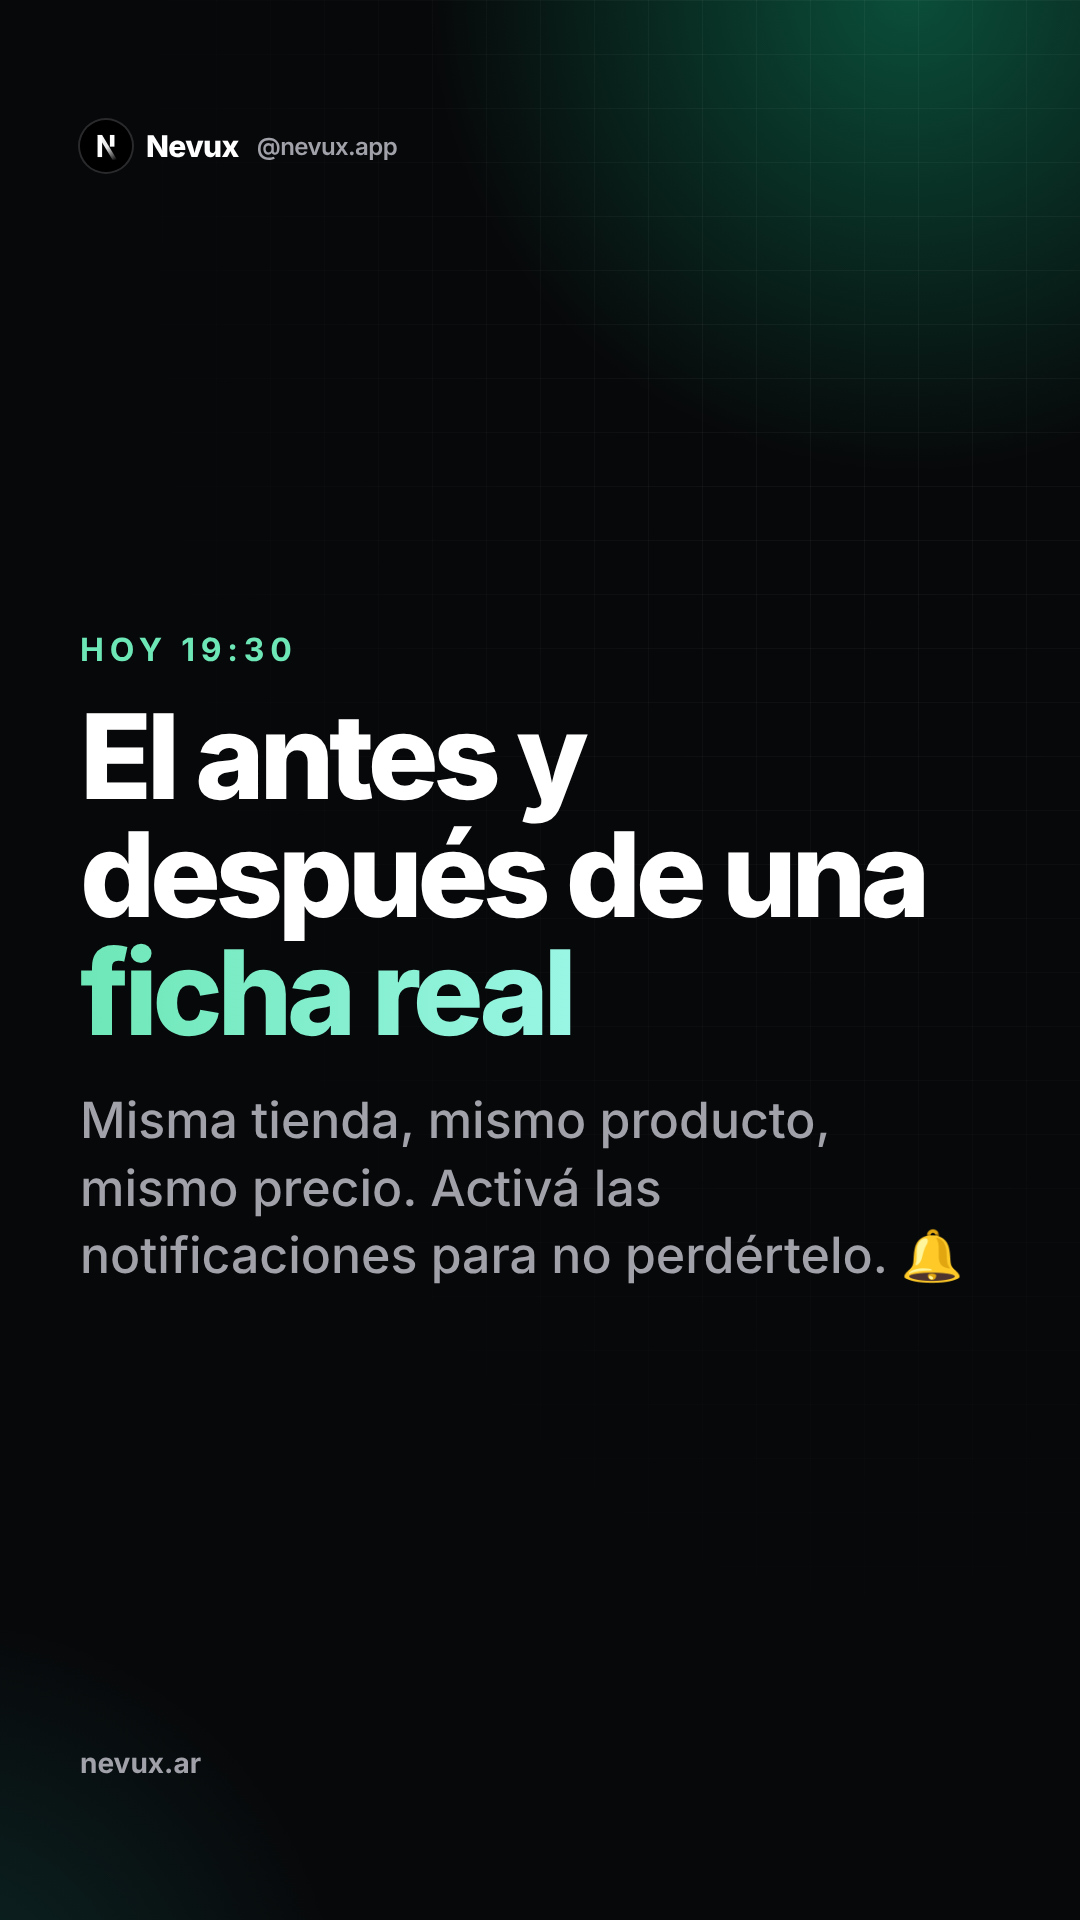
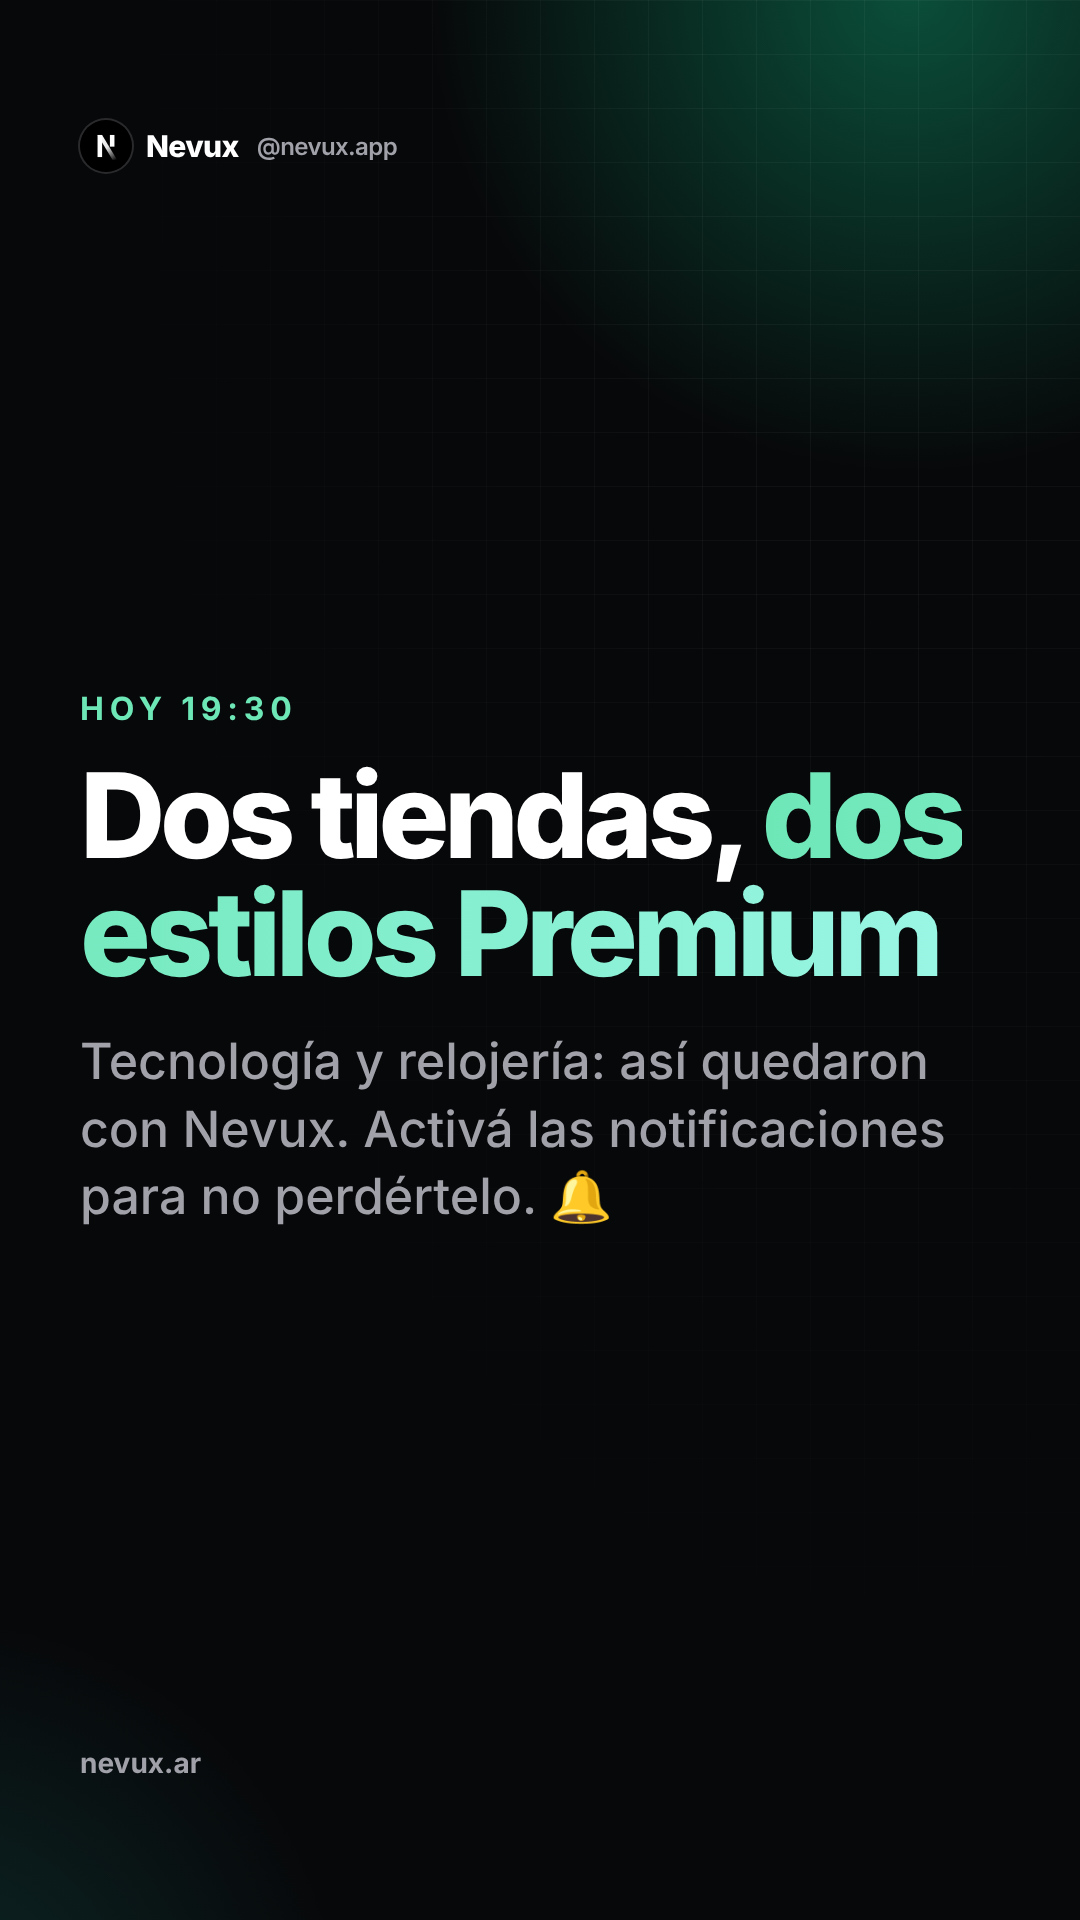
Instagram @nevux.app: miércoles 4/11 con las dos tiendas Premium como están hoy (Hogar Digital y Valmont)
Claude-Session: https://claude.ai/code/session_01PDD9Es5e9V3nkNbyxc3gnr

Changed region(s): [[0.0611, 0.3125, 0.8861, 0.6875], [0.825, 0.625, 0.8861, 0.6875]]

diff --git a/scripts/instagram/casos.html b/scripts/instagram/casos.html
@@ -1,0 +1,62 @@
+<!doctype html>
+<html lang="es">
+<head>
+<meta charset="utf-8">
+<!-- Carrusel de casos reales (capturas de tiendas dentro de celulares). generar-casos.js le pasa cada placa en window.PLACA. -->
+<link href="https://fonts.googleapis.com/css2?family=Inter:wght@500;600;700;800;900&display=block" rel="stylesheet">
+<style>
+  * { margin: 0; padding: 0; box-sizing: border-box; }
+  html, body { width: 1080px; height: 1350px; overflow: hidden; }
+  body { font-family: Inter, sans-serif; color: #fff; background: #07080a; position: relative; }
+  .glow { position: absolute; width: 1100px; height: 1100px; right: -380px; top: -560px; border-radius: 50%; background: radial-gradient(circle, rgba(16,185,129,.40), rgba(16,185,129,0) 62%); }
+  .glow2 { position: absolute; width: 900px; height: 900px; left: -520px; bottom: -560px; border-radius: 50%; background: radial-gradient(circle, rgba(45,212,191,.16), rgba(45,212,191,0) 65%); }
+  .grid { position: absolute; inset: 0; background-image: linear-gradient(rgba(255,255,255,.04) 1px, transparent 1px), linear-gradient(90deg, rgba(255,255,255,.04) 1px, transparent 1px); background-size: 54px 54px; -webkit-mask-image: radial-gradient(ellipse at 80% 10%, #000 15%, transparent 65%); }
+  .top { position: absolute; left: 80px; right: 80px; top: 64px; display: flex; align-items: center; justify-content: space-between; z-index: 3; }
+  .marca { display: flex; align-items: center; gap: 14px; font-size: 30px; font-weight: 800; letter-spacing: -.02em; }
+  .marca svg { width: 52px; height: 52px; border-radius: 50%; box-shadow: 0 0 0 2px rgba(255,255,255,.14); }
+  .marca small { font-size: 24px; font-weight: 600; color: #a1a1aa; margin-left: 4px; }
+  .pag { font-size: 24px; font-weight: 700; color: #a1a1aa; background: rgba(255,255,255,.06); border: 1px solid rgba(255,255,255,.12); border-radius: 999px; padding: 8px 18px; }
+  .eyebrow { font-size: 24px; font-weight: 800; letter-spacing: .16em; color: #6ee7b7; text-transform: uppercase; margin-bottom: 20px; }
+  .verde { background: linear-gradient(90deg, #6ee7b7, #99f6e4); -webkit-background-clip: text; color: transparent; }
+  .cab { position: absolute; left: 80px; right: 80px; top: 165px; z-index: 2; text-align: center; }
+  .cab h1 { font-size: 76px; line-height: 1.02; font-weight: 800; letter-spacing: -.04em; }
+  .cab p { margin-top: 18px; font-size: 32px; line-height: 1.35; color: #a1a1aa; font-weight: 500; }
+  .tel { position: relative; border-radius: 54px; background: linear-gradient(160deg, #2a2a2e, #141416); padding: 12px; box-shadow: 0 50px 110px -20px rgba(0,0,0,.95), 0 0 0 1px rgba(255,255,255,.1), inset 0 0 0 2px rgba(255,255,255,.05); }
+  .tel .in { width: 100%; height: 100%; border-radius: 43px; overflow: hidden; background: #fff; position: relative; }
+  .tel img { width: 100%; height: 100%; object-fit: cover; object-position: top; display: block; }
+  .tel .isla { position: absolute; top: 14px; left: 50%; transform: translateX(-50%); width: 110px; height: 30px; border-radius: 20px; background: #000; z-index: 2; }
+  .dos { position: absolute; left: 0; right: 0; bottom: 70px; display: flex; justify-content: center; gap: 44px; z-index: 2; }
+  .dos .tel { width: 370px; height: 800px; }
+  .dos .tel:nth-child(1) { transform: rotate(-3deg) translateY(10px); }
+  .dos .tel:nth-child(2) { transform: rotate(3deg) translateY(10px); }
+  .rot { position: absolute; left: 50%; transform: translateX(-50%); bottom: -46px; white-space: nowrap; font-size: 22px; font-weight: 800; letter-spacing: .12em; color: #07080a; background: #34d399; border-radius: 10px; padding: 7px 14px; }
+  .split .txt { position: absolute; left: 80px; top: 190px; bottom: 90px; width: 470px; display: flex; flex-direction: column; justify-content: center; z-index: 2; }
+  .split h2 { font-size: 66px; line-height: 1.04; font-weight: 800; letter-spacing: -.04em; }
+  .lista { margin-top: 36px; display: flex; flex-direction: column; gap: 22px; }
+  .lista div { display: flex; gap: 16px; font-size: 30px; line-height: 1.32; font-weight: 600; color: #e4e4e7; }
+  .lista svg { flex: none; width: 38px; height: 38px; margin-top: 1px; }
+  .split .tel { position: absolute; right: 70px; top: 175px; width: 440px; height: 952px; z-index: 2; transform: rotate(2deg); }
+  .cta { position: absolute; left: 80px; right: 80px; top: 190px; bottom: 170px; display: flex; flex-direction: column; justify-content: center; z-index: 2; }
+  .cta h1 { font-size: 104px; line-height: 1.0; font-weight: 800; letter-spacing: -.045em; }
+  .cta p { margin-top: 36px; font-size: 40px; line-height: 1.4; color: #d4d4d8; font-weight: 500; }
+  .palabra { display: inline-block; background: #fff; color: #07080a; font-weight: 900; border-radius: 12px; padding: 2px 16px; }
+  .pie { position: absolute; left: 80px; right: 80px; bottom: 60px; display: flex; justify-content: space-between; font-size: 24px; font-weight: 700; color: #71717a; z-index: 3; }
+  .pie .d { color: #34d399; }
+</style>
+</head>
+<body>
+<div class="glow"></div><div class="glow2"></div><div class="grid"></div>
+<div id="r"></div>
+<script>
+const P = window.PLACA || {};
+const LOGO = `<svg viewBox="0 0 40 40" xmlns="http://www.w3.org/2000/svg"><defs><linearGradient id="g" x1="13.5" y1="11.5" x2="28.5" y2="30.5" gradientUnits="userSpaceOnUse"><stop offset="0%" stop-color="#fff"/><stop offset="50%" stop-color="#fff" stop-opacity=".9"/><stop offset="100%" stop-color="#fff" stop-opacity="0"/></linearGradient></defs><circle cx="20" cy="20" r="20" fill="#000"/><rect x="13.5" y="11.5" width="3.5" height="17" fill="#fff"/><rect x="23" y="11.5" width="3.5" height="9" fill="#fff"/><polygon points="13.5,11.5 17,11.5 28.5,30.5 25,30.5" fill="url(#g)"/></svg>`;
+const OK = `<svg viewBox="0 0 24 24" fill="none"><circle cx="12" cy="12" r="11" fill="rgba(52,211,153,.16)"/><path d="m7 12.5 3.2 3.2L17 9" stroke="#34d399" stroke-width="2.4" stroke-linecap="round" stroke-linejoin="round"/></svg>`;
+const tel = (src, rot) => `<div class="tel"><div class="in"><img src="casos/${src}.jpg"></div>${rot ? `<span class="rot">${rot}</span>` : ""}</div>`;
+let h = `<div class="top"><div class="marca">${LOGO}Nevux<small>@nevux.app</small></div><span class="pag">${P.pag || ""}</span></div>`;
+if (P.tipo === "dos") h += `<div class="cab">${P.eyebrow ? `<div class="eyebrow">${P.eyebrow}</div>` : ""}<h1>${P.titulo}</h1>${P.sub ? `<p>${P.sub}</p>` : ""}</div><div class="dos">${P.fotos.map(([f, r]) => tel(f, r)).join("")}</div>`;
+if (P.tipo === "split") h += `<div class="split"><div class="txt">${P.eyebrow ? `<div class="eyebrow">${P.eyebrow}</div>` : ""}<h2>${P.titulo}</h2><div class="lista">${P.lista.map((x) => `<div>${OK}<span>${x}</span></div>`).join("")}</div></div>${tel(P.foto)}</div>`;
+if (P.tipo === "cta") h += `<div class="cta">${P.eyebrow ? `<div class="eyebrow">${P.eyebrow}</div>` : ""}<h1>${P.titulo}</h1><p>${P.texto}</p></div><div class="pie"><span>nevux.ar</span><span class="d">Guardalo para después</span></div>`;
+document.getElementById("r").innerHTML = h;
+</script>
+</body>
+</html>

diff --git a/scripts/instagram/premium-casos.js b/scripts/instagram/premium-casos.js
@@ -1,0 +1,41 @@
+// Miércoles 4/11 de @nevux.app: las dos tiendas Premium tal como están hoy (capturas reales del 02/11).
+// Valmont: solo secciones sin productos (su catálogo tiene réplicas de marcas: no se muestran).
+const HASHTAGS = "#tiendanube #emprendedoresargentinos #tiendaonline #ecommerceargentina #ventasonline #emprender";
+module.exports = {
+  carpeta: "07-premium",
+  placas: [
+    { tipo: "dos", eyebrow: "Plan Premium · Casos reales", titulo: 'Dos tiendas. <span class="verde">Dos estilos.</span>', sub: "Tecnología y relojería. Así quedaron con Nevux. Deslizá →",
+      fotos: [["hd-portada", "HOGAR DIGITAL"], ["vm-portada", "VALMONT & CO."]] },
+    { tipo: "split", eyebrow: "Hogar Digital · Tecnología", titulo: 'Una portada de <span class="verde">marca grande</span>', foto: "hd-portada",
+      lista: ["Cabecera flotante que se vuelve de vidrio al bajar", "Cinta con envíos, garantía y WhatsApp", "Fotos reales de sus productos", "Beneficios con íconos que se dibujan solos"] },
+    { tipo: "split", eyebrow: "Hogar Digital · Tecnología", titulo: 'Categorías que <span class="verde">se mueven</span>', foto: "hd-outfit",
+      lista: ["“Encontrá lo tuyo”: la categoría cambia mientras bajás", "Comunidad con cuadros de sus propios videos", "Todo con los productos y precios de su tienda"] },
+    { tipo: "dos", eyebrow: "Hogar Digital · Tecnología", titulo: 'Confianza con <span class="verde">datos reales</span>', sub: "Sus números de verdad y su local con mapa y horario.",
+      fotos: [["hd-numeros", "NÚMEROS QUE SUBEN"], ["hd-local", "LOCAL CON MAPA"]] },
+    { tipo: "split", eyebrow: "Hogar Digital · La ficha", titulo: 'Una ficha que <span class="verde">saca las dudas</span>', foto: "hd-precio",
+      lista: ["Precio de lista, % OFF y precio final, claros", "Cuándo sale el pedido, con la hora de corte real", "Cambios, atención y garantía a la vista", "Botón de compra que siempre se ve"] },
+    { tipo: "dos", eyebrow: "Valmont & Co. · Relojería", titulo: 'Otro rubro, <span class="verde">otro estilo</span>', sub: "Logo que gira en 3D, hora oficial en vivo y “Por qué Valmont” en etiquetas colgadas.",
+      fotos: [["vm-portada", "PORTADA"], ["vm-porque", "POR QUÉ VALMONT"]] },
+    { tipo: "cta", eyebrow: "Análisis gratis", titulo: '¿Cómo quedaría <span class="verde">la tuya</span>?',
+      texto: 'Comentá <span class="palabra">FICHA</span> y te mando qué cambiaría en tu tienda. Sin apps y sin cambiar de plantilla.' },
+  ],
+  caption: `Dos tiendas. Dos rubros. Dos estilos Premium. 🚀
+
+Deslizá y mirá cómo quedaron Hogar Digital (@hogardigitaltiendaonline, tecnología y hogar) y Valmont & Co. (relojería) con el plan Premium de Nevux.
+
+🏠 Hogar Digital
+✨ Portada de marca grande, con cabecera flotante y cinta de anuncios
+🔄 Categorías que cambian mientras bajás y comunidad con sus propios videos
+📊 Confianza con datos reales: sus números y su local con mapa y horario
+🛒 Una ficha que saca las dudas: precio claro, cuándo sale el pedido y garantía a la vista
+
+⌚ Valmont & Co.
+✨ Logo que gira en 3D y hora oficial en vivo
+🏷 "Por qué Valmont" en etiquetas colgadas, con el estilo de una relojería
+
+Lo mismo para las dos: todo hecho a medida sobre su Tiendanube, con sus productos y sus datos reales. Sin apps y sin cambiar de plantilla. 💡
+
+👉 ¿Cómo quedaría la tuya? Comentá FICHA y te mando un análisis gratis.
+
+${HASHTAGS}`,
+};

diff --git a/scripts/instagram/generar-casos.js b/scripts/instagram/generar-casos.js
@@ -1,0 +1,28 @@
+// Carrusel con capturas reales de las tiendas Premium (scripts/instagram/casos/*.jpg) dentro de celulares.
+// Uso: node scripts/instagram/generar-casos.js  → public/ig/07-premium/1..N.jpg (JPG 97 % 4:4:4) + caption.txt
+const fs = require("fs");
+const path = require("path");
+const { execFileSync } = require("child_process");
+const { chromium } = require("playwright");
+const post = require("./premium-casos.js");
+
+(async () => {
+  const dir = path.join(__dirname, "..", "..", "public", "ig", post.carpeta);
+  fs.mkdirSync(dir, { recursive: true });
+  const b = await chromium.launch();
+  for (const [i, placa] of post.placas.entries()) {
+    const p = await b.newPage({ viewport: { width: 1080, height: 1350 } });
+    await p.addInitScript((x) => (window.PLACA = x), { ...placa, pag: `${i + 1}/${post.placas.length}` });
+    await p.goto("file://" + path.join(__dirname, "casos.html"), { waitUntil: "networkidle" });
+    await p.evaluate(() => document.fonts.ready);
+    await p.evaluate(() => Promise.all([...document.images].map((im) => im.complete ? 0 : new Promise((r) => (im.onload = im.onerror = r)))));
+    const png = path.join(dir, `${i + 1}.png`);
+    await p.screenshot({ path: png, type: "png" });
+    await p.close();
+    execFileSync("python3", ["-c", "import sys;from PIL import Image;Image.open(sys.argv[1]).convert('RGB').save(sys.argv[2],quality=97,subsampling=0,optimize=True)", png, png.replace(/png$/, "jpg")]);
+    fs.rmSync(png);
+  }
+  fs.writeFileSync(path.join(dir, "caption.txt"), post.caption + "\n");
+  console.log(post.carpeta, post.placas.length, "placas");
+  await b.close();
+})();

diff --git a/scripts/instagram/historias-1.js b/scripts/instagram/historias-1.js
@@ -77,10 +77,10 @@ module.exports = {
     },
     {
       archivo: "1104-2", tipo: "portada", eyebrow: "Hoy 19:30",
-      titulo: 'El antes y después de una <span class="verde">ficha real</span>',
-      sub: "Misma tienda, mismo producto, mismo precio. Activá las notificaciones para no perdértelo. 🔔",
+      titulo: 'Dos tiendas, <span class="verde">dos estilos Premium</span>',
+      sub: "Tecnología y relojería: así quedaron con Nevux. Activá las notificaciones para no perdértelo. 🔔",
     },
-    nuevo("1104-3", "Nuevo post", 'Mismo producto. <span class="verde">Otra ficha.</span>', "Deslizá y mirá qué cambió (y por qué funciona)."),
+    nuevo("1104-3", "Nuevo post", 'Dos tiendas. <span class="verde">Dos estilos.</span>', "Mirá cómo quedaron Hogar Digital y Valmont con el plan Premium."),
 
     // Jue 5/11 · reel: packs
     {
